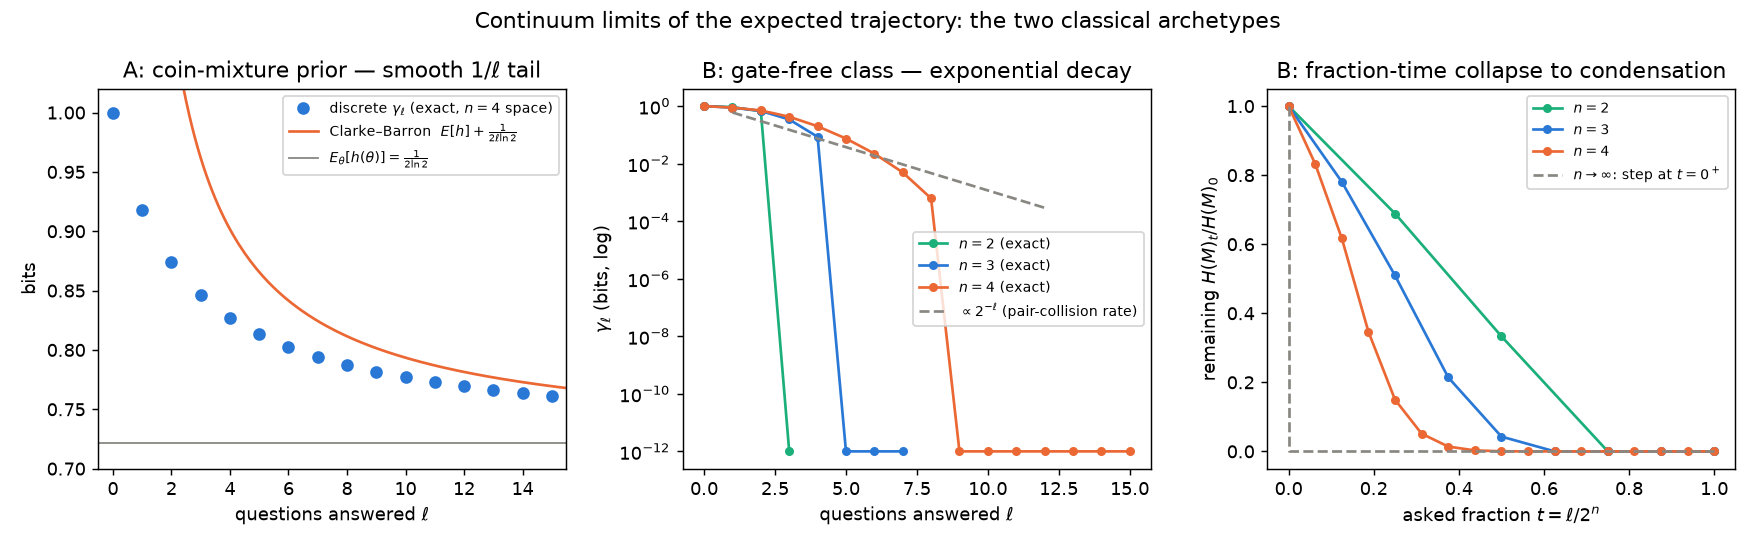
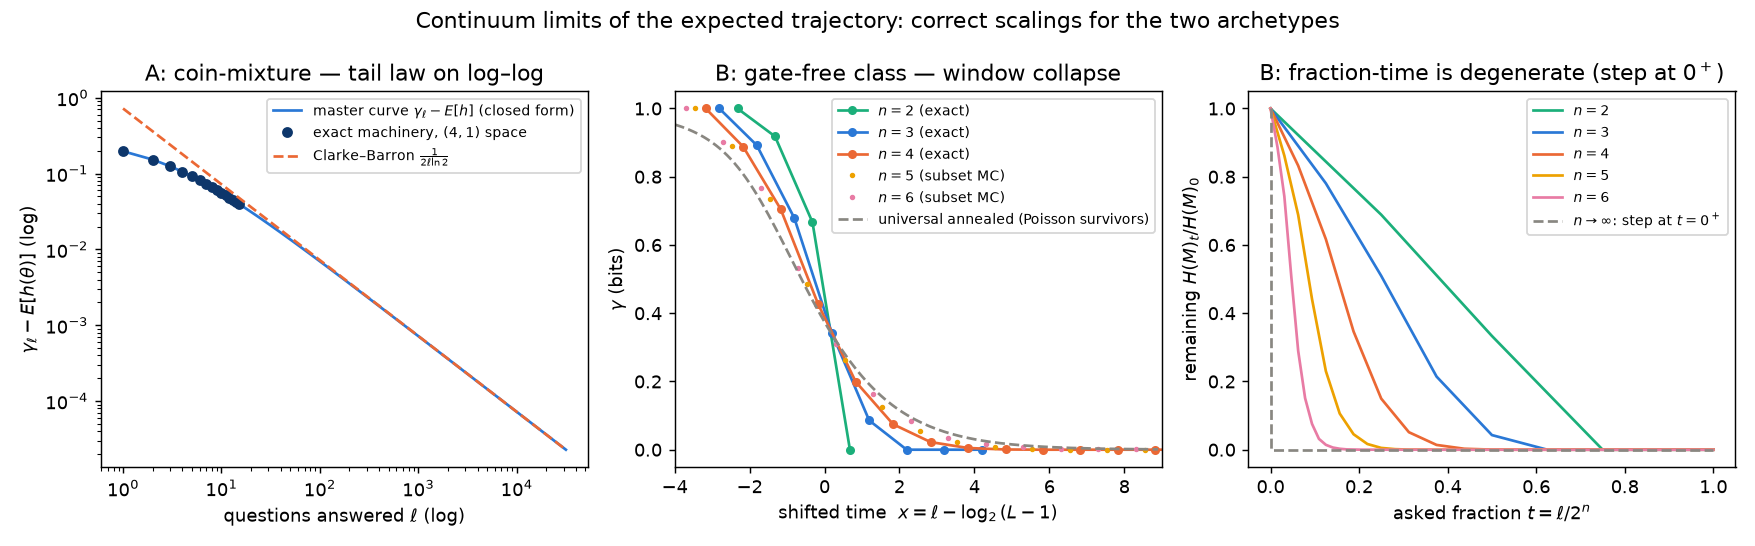
Fix continuum-limit scalings so discrete curves land on the limits
Panel A now compares on log-log axes (the Clarke-Barron increment law
is a tail law with logarithmically slow convergence; on linear axes at
l <= 15 it cannot agree): the exact machinery points sit on the
closed-form master curve, which visibly merges into the CB slope -1
line. Panel B now uses the correct scaling variable x = l - log2(L-1)
(the discrete-class window is shifted, not rescaled): sizes n = 2..6
(exact for n <= 4, subset-MC for 5, 6) collapse onto a universal
Poisson-survivor annealed curve, with values at x = 0 running 0.452 ->
0.375 against universal 0.374; the residual drift is the
hypergeometric correction to the 2^-l survival rate. Fraction-time
kept as a third panel to show why that axis degenerates to the step.

diff --git a/continuum_limit.py b/continuum_limit.py
@@ -95,54 +95,130 @@ def gatefree_gamma(n):
     return [G[l + 1] - G[l] for l in range(NQ)], G
 
 
+def gatefree_gamma_mc(n, samples=4000, seed=0):
+    """gamma_l for the gate-free class at larger n: subsets sampled,
+    block entropies per sampled subset exact (Rao-Blackwellized)."""
+    import random
+    rng = random.Random(seed)
+    NQ = 1 << n
+    tables = [0, (1 << NQ) - 1]
+    for i in range(n):
+        t = sum(1 << q for q in range(NQ) if (q >> i) & 1)
+        tables.append(t)
+        tables.append(t ^ ((1 << NQ) - 1))
+    L = len(tables)
+    def blockH(S):
+        d = {}
+        for t in tables:
+            key = tuple((t >> q) & 1 for q in S)
+            d[key] = d.get(key, 0) + 1 / L
+        return H(list(d.values()))
+    gam = []
+    for l in range(NQ):
+        tot = 0.0
+        for _ in range(samples):
+            S = rng.sample(range(NQ), l)
+            qp = rng.choice([q for q in range(NQ) if q not in S])
+            tot += blockH(tuple(sorted(S + [qp]))) - blockH(tuple(sorted(S)))
+        gam.append(tot / samples)
+    return gam
+
+
+def universal_annealed(x):
+    """Annealed survivor curve: wrong survivors M ~ Poisson(2^-x); given
+    M, the fresh column's predictive is (1+B)/(M+1), B ~ Binom(M, 1/2)."""
+    from math import comb, exp
+    mu = 2.0 ** (-x)
+    tot = 0.0
+    for M in range(0, 60):
+        pM = exp(-mu) * mu ** M / math.factorial(M)
+        if pM < 1e-14 and M > mu:
+            break
+        eb = sum(comb(M, b) * 0.5 ** M * h((1 + b) / (M + 1)) for b in range(M + 1))
+        tot += pM * eb
+    return tot
+
+
 def main():
     gamA = exchangeable_check()
     fig, axes = plt.subplots(1, 3, figsize=(13.5, 4.2))
 
-    # panel 1: smooth archetype
+    # panel 1: smooth archetype on LOG-LOG axes (the law is a tail law)
     ax = axes[0]
-    ls = list(range(16))
-    ax.plot(ls, gamA, "o", color="#2a78d6", label="discrete $\\gamma_\\ell$ (exact, $n{=}4$ space)")
-    lfine = [x / 10 for x in range(5, 400)]
-    ax.plot(lfine, [EH + 1 / (2 * math.log(2) * max(l, 1e-9)) for l in lfine],
-            "-", color="#eb6834", label="Clarke–Barron  $E[h]+\\frac{1}{2\\ell\\ln 2}$")
-    ax.axhline(EH, color="#898781", lw=1, label="$E_\\theta[h(\\theta)]=\\frac{1}{2\\ln 2}$")
-    ax.set_xlim(-0.5, 15.5); ax.set_ylim(0.7, 1.02)
-    ax.set_xlabel("questions answered $\\ell$"); ax.set_ylabel("bits")
-    ax.set_title("A: coin-mixture prior — smooth $1/\\ell$ tail")
+    lbig = [int(round(10 ** (i / 12))) for i in range(0, 55)]
+    lbig = sorted(set(l for l in lbig if l >= 1))
+    master = [sum(h((k + 1) / (l + 2)) for k in range(l + 1)) / (l + 1) - EH
+              for l in lbig]
+    ax.loglog(lbig, master, "-", color="#2a78d6",
+              label="master curve $\\gamma_\\ell - E[h]$ (closed form)")
+    ax.loglog(range(1, 16), [gamA[l] - EH for l in range(1, 16)], "o",
+              color="#0d366b", ms=5,
+              label="exact machinery, $(4,1)$ space")
+    ax.loglog(lbig, [EH / l for l in lbig], "--", color="#eb6834",
+              label="Clarke–Barron $\\frac{1}{2\\ell\\ln 2}$")
+    ax.set_xlabel("questions answered $\\ell$ (log)")
+    ax.set_ylabel("$\\gamma_\\ell - E[h(\\theta)]$ (log)")
+    ax.set_title("A: coin-mixture — tail law on log–log")
     ax.legend(fontsize=8)
 
-    # panel 2: condensation archetype, log scale
+    # panel 2: condensation window, shifted axis x = l - log2(L-1)
     ax = axes[1]
-    guides = {}
+    data = {}
     for n, col in ((2, "#1baf7a"), (3, "#2a78d6"), (4, "#eb6834")):
-        gam, G = gatefree_gamma(n)
-        guides[n] = (gam, G)
-        ax.semilogy(range(len(gam)), [max(g, 1e-12) for g in gam], "o-",
-                    color=col, ms=4, label=f"$n={n}$ (exact)")
-    lref = list(range(1, 13))
-    ax.semilogy(lref, [1.2 * 2 ** (-l) for l in lref], "--", color="#898781",
-                label="$\\propto 2^{-\\ell}$ (pair-collision rate)")
-    ax.set_xlabel("questions answered $\\ell$"); ax.set_ylabel("$\\gamma_\\ell$ (bits, log)")
-    ax.set_title("B: gate-free class — exponential decay")
+        gam, _ = gatefree_gamma(n)
+        data[n] = gam
+        L = 2 * n + 2
+        xs = [l - math.log2(L - 1) for l in range(len(gam))]
+        ax.plot(xs, gam, "o-", ms=4, color=col, label=f"$n={n}$ (exact)")
+    for n, col in ((5, "#eda100"), (6, "#e87ba4")):
+        gam = gatefree_gamma_mc(n)
+        data[n] = gam
+        L = 2 * n + 2
+        xs = [l - math.log2(L - 1) for l in range(len(gam))]
+        ax.plot(xs, gam, ".", ms=4, color=col, label=f"$n={n}$ (subset MC)")
+    xg = [x / 10 for x in range(-40, 90)]
+    ax.plot(xg, [universal_annealed(x) for x in xg], "--", color="#898781",
+            label="universal annealed (Poisson survivors)")
+    ax.set_xlim(-4, 9)
+    ax.set_xlabel("shifted time  $x = \\ell - \\log_2(L-1)$")
+    ax.set_ylabel("$\\gamma$ (bits)")
+    ax.set_title("B: gate-free class — window collapse")
     ax.legend(fontsize=8)
+    # collapse quality at fixed shifted x (linear interpolation in l)
+    def interp(n, x):
+        L = 2 * n + 2
+        l = x + math.log2(L - 1)
+        lo = int(math.floor(l))
+        f = l - lo
+        g = data[n]
+        if lo < 0 or lo + 1 >= len(g):
+            return None
+        return (1 - f) * g[lo] + f * g[lo + 1]
+    print("B collapse (values at fixed x, -> universal as n grows):")
+    for x in (-1.0, 0.0, 1.0, 2.0):
+        vals = "  ".join(f"n={n}:{interp(n, x):.3f}" for n in (2, 3, 4, 5, 6)
+                         if interp(n, x) is not None)
+        print(f"  x={x:4}: universal {universal_annealed(x):.3f}   {vals}")
 
-    # panel 3: remaining entropy in fraction-time -> step at 0+
+    # panel 3: same data in fraction-time -> degenerate step (why the
+    # t-axis is the wrong microscope for this archetype)
     ax = axes[2]
-    for n, col in ((2, "#1baf7a"), (3, "#2a78d6"), (4, "#eb6834")):
-        gam, G = guides[n]
+    for n, col in ((2, "#1baf7a"), (3, "#2a78d6"), (4, "#eb6834"),
+                   (5, "#eda100"), (6, "#e87ba4")):
+        gam = data[n]
         NQ = 1 << n
         rem = [(NQ - l) * gam[l] for l in range(NQ)] + [0.0]
         ts = [l / NQ for l in range(NQ + 1)]
-        ax.plot(ts, [r / rem[0] for r in rem], "o-", color=col, ms=4,
+        ax.plot(ts, [r / rem[0] for r in rem], "-", color=col, lw=1.5,
                 label=f"$n={n}$")
-    ax.plot([0, 0, 1], [1, 0, 0], "--", color="#898781", label="$n\\to\\infty$: step at $t=0^+$")
+    ax.plot([0, 0, 1], [1, 0, 0], "--", color="#898781",
+            label="$n\\to\\infty$: step at $t=0^+$")
     ax.set_xlabel("asked fraction $t=\\ell/2^n$")
     ax.set_ylabel("remaining $H(M)_t / H(M)_0$")
-    ax.set_title("B: fraction-time collapse to condensation")
+    ax.set_title("B: fraction-time is degenerate (step at $0^+$)")
     ax.legend(fontsize=8)
 
-    fig.suptitle("Continuum limits of the expected trajectory: the two classical archetypes")
+    fig.suptitle("Continuum limits of the expected trajectory: correct scalings for the two archetypes")
     fig.tight_layout()
     fig.savefig("figures/continuum_limit.png", dpi=130)
     print("wrote figures/continuum_limit.png")

diff --git a/learning_agent.md b/learning_agent.md
@@ -2149,14 +2149,34 @@ degree-$\le k$ (Reed–Muller) prior, $\gamma(t)$ is the RM rank profile
 under random erasures, and *RM codes achieve erasure capacity* — a
 perfect step at $t = R$, the code rate.
 
-![continuum limit: the two archetypes](figures/continuum_limit.png)
+**Getting the scalings right matters.** Neither archetype's law is
+visible on naive axes. The Clarke–Barron increment converges only
+logarithmically (the coefficient is at $0.60$ of its limit by
+$\ell = 15$, $0.72$ by $\ell \sim 5000$), so the honest comparison is
+the *tail on log–log axes*, where $\gamma_\ell - E[h]$ is a line of
+slope $-1$ that the master curve merges into. And the discrete-class
+window lives at $\ell \approx \log_2(L-1) + O(1)$ — a *shifted* axis,
+not a rescaled one: plotted against $x = \ell - \log_2(L-1)$, the
+curves for all sizes collapse onto a **universal survivor curve**
+(wrong maps survive $\ell$ questions with probability $\approx
+2^{-\ell}$, so their number is $\mathrm{Poisson}(2^{-x})$; the fresh
+column's entropy given $M$ wrong survivors and the truth is
+$\mathbb{E}\,h\big(\tfrac{1+B}{M+1}\big)$, $B \sim
+\mathrm{Binom}(M,\tfrac12)$). Fraction-time $t = \ell/2^n$ compresses
+this entire window into the point $t = 0$ — the step is a correct
+limit but a useless microscope.
 
-Left: archetype A — the exact discrete $\gamma_\ell$ (computed on the
-$(4,1)$ space) on the Clarke–Barron curve. Middle: archetype B — exact
-$\gamma_\ell$ for $n = 2, 3, 4$ on a log scale against the $2^{-\ell}$
-pair-collision guide; the decay *rate* is already size-independent.
-Right: the same data in fraction-time, collapsing toward the step at
-$t = 0^+$. (All curves from `continuum_limit.py`.)
+![continuum limit: the two archetypes, correct scalings](figures/continuum_limit.png)
+
+Left: archetype A on log–log — the exact machinery points sit on the
+closed-form master curve, which merges into the Clarke–Barron line.
+Middle: archetype B against the shifted time $x$ — sizes $n = 2,3,4$
+(exact) and $5, 6$ (subset MC) converging onto the universal annealed
+curve; at $x = 0$ the values run $0.452, 0.408, 0.388, 0.382, 0.375$
+against the universal $0.374$ (the residual finite-size drift is the
+hypergeometric correction to the $2^{-\ell}$ survival rate at small
+$2^n$). Right: the same data in fraction-time, showing why that axis
+degenerates to the step. (All curves from `continuum_limit.py`.)
 
 **What remains open in the limit** is exactly what one would hope: the
 $\gamma(t)$ of a *genuine* circuit-complexity Gibbs prior. Two things
